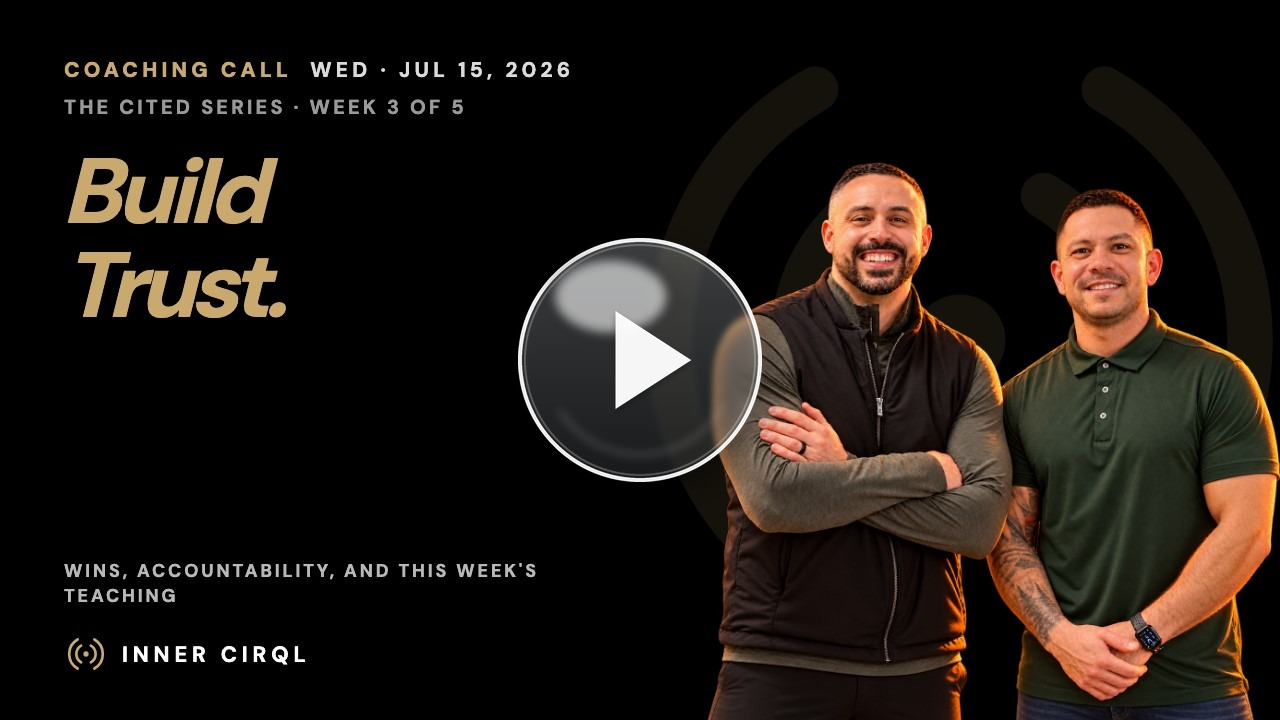
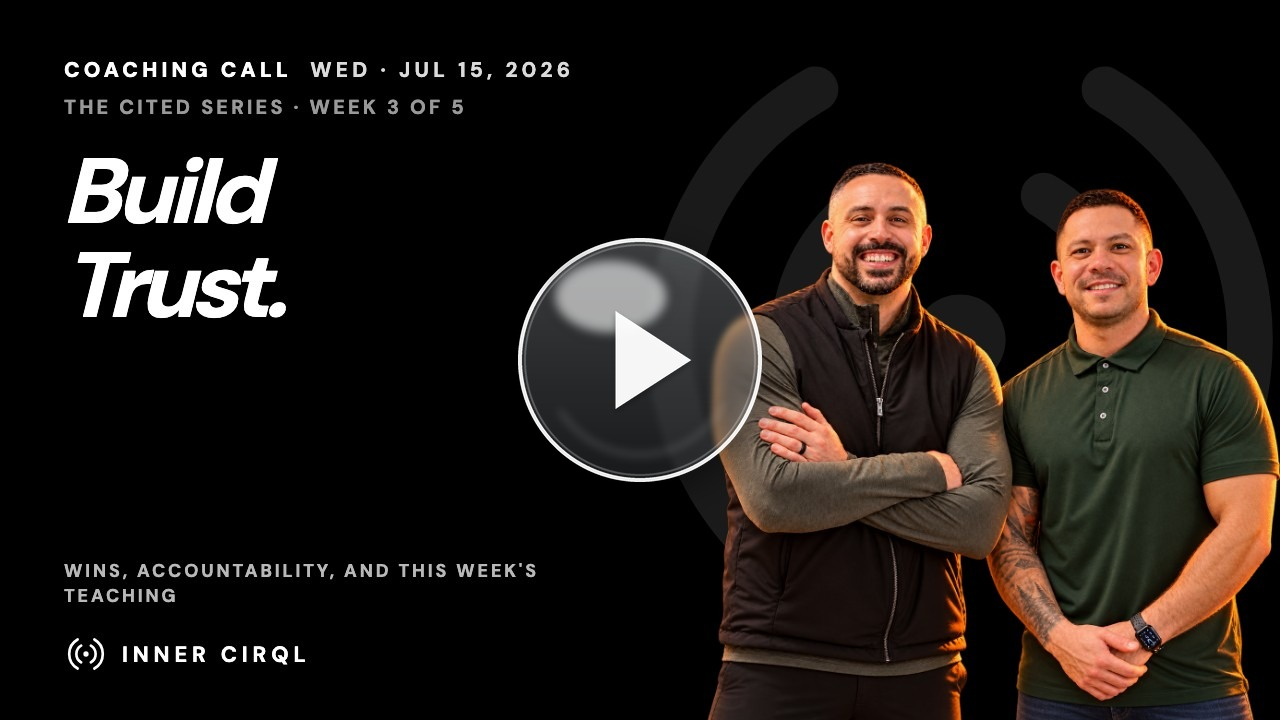
Training: retitle Jul 15 coaching call (The CITED Series · Week 3 · Trust.) + thumbnail

Changed region(s): [[0.0312, 0.2139, 0.2188, 0.4583], [0.0312, 0.0917, 0.2188, 0.1222], [0.0312, 0.8861, 0.0938, 0.9167]]

diff --git a/training/index.html b/training/index.html
@@ -94,6 +94,26 @@ window.LIBRARY = {
   ],
   "items": [
     {
+      "id": "v-2026-07-15",
+      "date": "2026-07-15",
+      "dateLabel": "July 15, 2026",
+      "series": "cited",
+      "week": 3,
+      "name": "Trust.",
+      "title": "The CITED Series · Week 3 · Trust.",
+      "headline": [
+        "Build",
+        "Trust."
+      ],
+      "sub": "The CITED Series · Week 3 of 5",
+      "desc": "The CITED Series, Week 3: Trust: lock your Realtor.com profile, the cross-check AI uses on your credibility. Wins, accountability, and the teaching segment, edited replay.",
+      "href": "https://coach.theinnercirql.com/2026-07-15/",
+      "pdf": null,
+      "slides": null,
+      "embed": "https://www.youtube.com/embed/42KBzIp_TEM?rel=0&modestbranding=1",
+      "thumb": "/assets/thumbs/jul-15-call.jpg?v=29920164"
+    },
+    {
       "id": "v-2026-07-08",
       "date": "2026-07-08",
       "dateLabel": "July 8, 2026",
@@ -532,26 +552,6 @@ window.LIBRARY = {
       "slides": null,
       "embed": "https://www.youtube.com/embed/HIqV88Ujlto?rel=0&modestbranding=1",
       "thumb": "/assets/thumbs/jul-22-call.jpg?v=29920145"
-    },
-    {
-      "id": "v-2026-07-15",
-      "date": "2026-07-15",
-      "dateLabel": "July 15, 2026",
-      "series": "cited",
-      "week": 3,
-      "name": "Trust.",
-      "title": "The CITED Series · Week 3 · Trust.",
-      "headline": [
-        "Build",
-        "Trust."
-      ],
-      "sub": "The CITED Series · Week 3 of 5",
-      "desc": "The CITED Series, Week 3: Trust: lock your Realtor.com profile, the cross-check AI uses on your credibility. Wins, accountability, and the teaching segment, edited replay.",
-      "href": "https://coach.theinnercirql.com/2026-07-15/",
-      "pdf": null,
-      "slides": null,
-      "embed": "https://www.youtube.com/embed/42KBzIp_TEM?rel=0&modestbranding=1",
-      "thumb": "/assets/thumbs/jul-15-call.jpg?v=29920145"
     },
     {
       "id": "t-become-a-listing-magnet",
